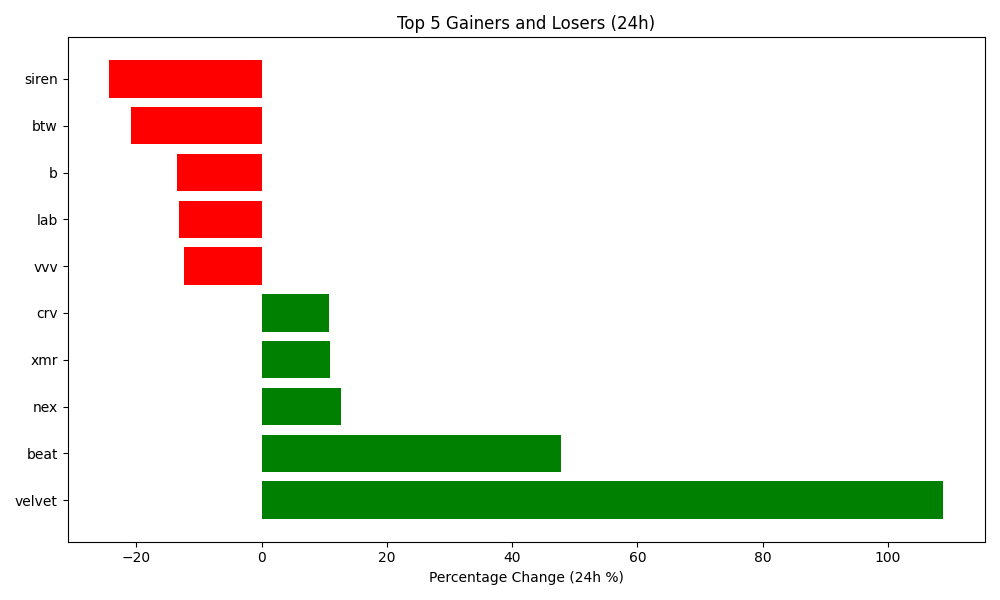
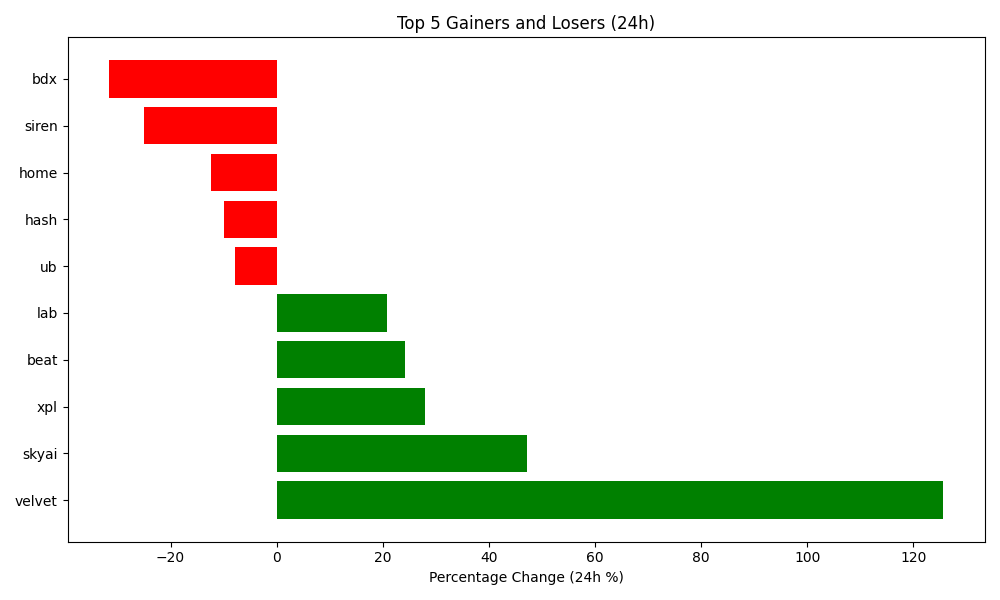
Auto-update crypto data and plot

diff --git a/README.md b/README.md
@@ -4,7 +4,7 @@ Author: Hitesh Agrawal
 This repository automatically tracks the top 5 gaining, top 5 losing, and top 5 highest volume cryptocurrencies in the last 24 hours using the CoinGecko API, Python, Matplotlib, and GitHub Actions updates the below content everyday at midnight.
 
 <!-- START_DYNAMIC_CONTENT -->
-Last updated: 2026-06-11 02:52 UTC
+Last updated: 2026-06-12 02:50 UTC
 
 ![Crypto Movers Plot](crypto_movers_plot.png)
 
@@ -12,33 +12,33 @@ Last updated: 2026-06-11 02:52 UTC
 
 | Rank | Coin | Price Change (24h %) | Volume (USD) | Current Price (USD) |
 | :--: | :--: | :------------------: | :----------: | :-----------------: |
-| 1 | velvet | 108.87% | $60,196,416 | $0.7809 |
-| 2 | beat | 47.74% | $230,728,211 | $7.0300 |
-| 3 | nex | 12.60% | $7,195,690 | $0.0000 |
-| 4 | xmr | 10.94% | $135,384,943 | $340.5600 |
-| 5 | crv | 10.68% | $81,086,821 | $0.2250 |
+| 1 | velvet | 125.62% | $100,703,876 | $1.7900 |
+| 2 | skyai | 47.08% | $59,252,081 | $0.2708 |
+| 3 | xpl | 27.95% | $115,718,656 | $0.0794 |
+| 4 | beat | 24.15% | $160,710,401 | $8.7300 |
+| 5 | lab | 20.77% | $48,393,368 | $9.4300 |
 
 
 **👇 Top 5 Losers (24h)**
 
 | Rank | Coin | Price Change (24h %) | Volume (USD) | Current Price (USD) |
 | :--: | :--: | :------------------: | :----------: | :-----------------: |
-| 1 | siren | -24.33% | $20,407,567 | $0.6608 |
-| 2 | btw | -20.82% | $37,086,944 | $0.0752 |
-| 3 | b | -13.52% | $14,427,163 | $0.2223 |
-| 4 | lab | -13.27% | $30,553,228 | $7.8100 |
-| 5 | vvv | -12.35% | $53,085,693 | $13.0700 |
+| 1 | bdx | -31.55% | $14,643,412 | $0.0539 |
+| 2 | siren | -25.03% | $29,040,426 | $0.4951 |
+| 3 | home | -12.45% | $257,468,349 | $0.0304 |
+| 4 | hash | -9.87% | $6,581 | $0.0096 |
+| 5 | ub | -7.89% | $20,706,581 | $0.1279 |
 
 
 **💎 Top 5 by Trade Volume (24h)**
 
 | Rank | Coin | Price Change (24h %) | Volume (USD) | Current Price (USD) |
 | :--: | :--: | :------------------: | :----------: | :-----------------: |
-| 1 | usdt | -0.05% | $48,158,120,990 | $0.9989 |
-| 2 | btc | 1.29% | $28,614,402,637 | $62,001.0000 |
-| 3 | usdc | 0.01% | $13,388,527,009 | $0.9998 |
-| 4 | eth | 0.75% | $12,290,323,940 | $1,633.3700 |
-| 5 | sol | 0.18% | $3,162,451,728 | $64.3500 |
+| 1 | usdt | -0.02% | $50,689,480,027 | $0.9987 |
+| 2 | btc | 2.52% | $30,284,724,936 | $63,522.0000 |
+| 3 | usdc | -0.00% | $13,307,543,108 | $0.9997 |
+| 4 | eth | 2.59% | $11,837,519,414 | $1,674.1900 |
+| 5 | sol | 4.34% | $2,676,490,805 | $67.1300 |
 
 
 <!-- END_DYNAMIC_CONTENT -->
